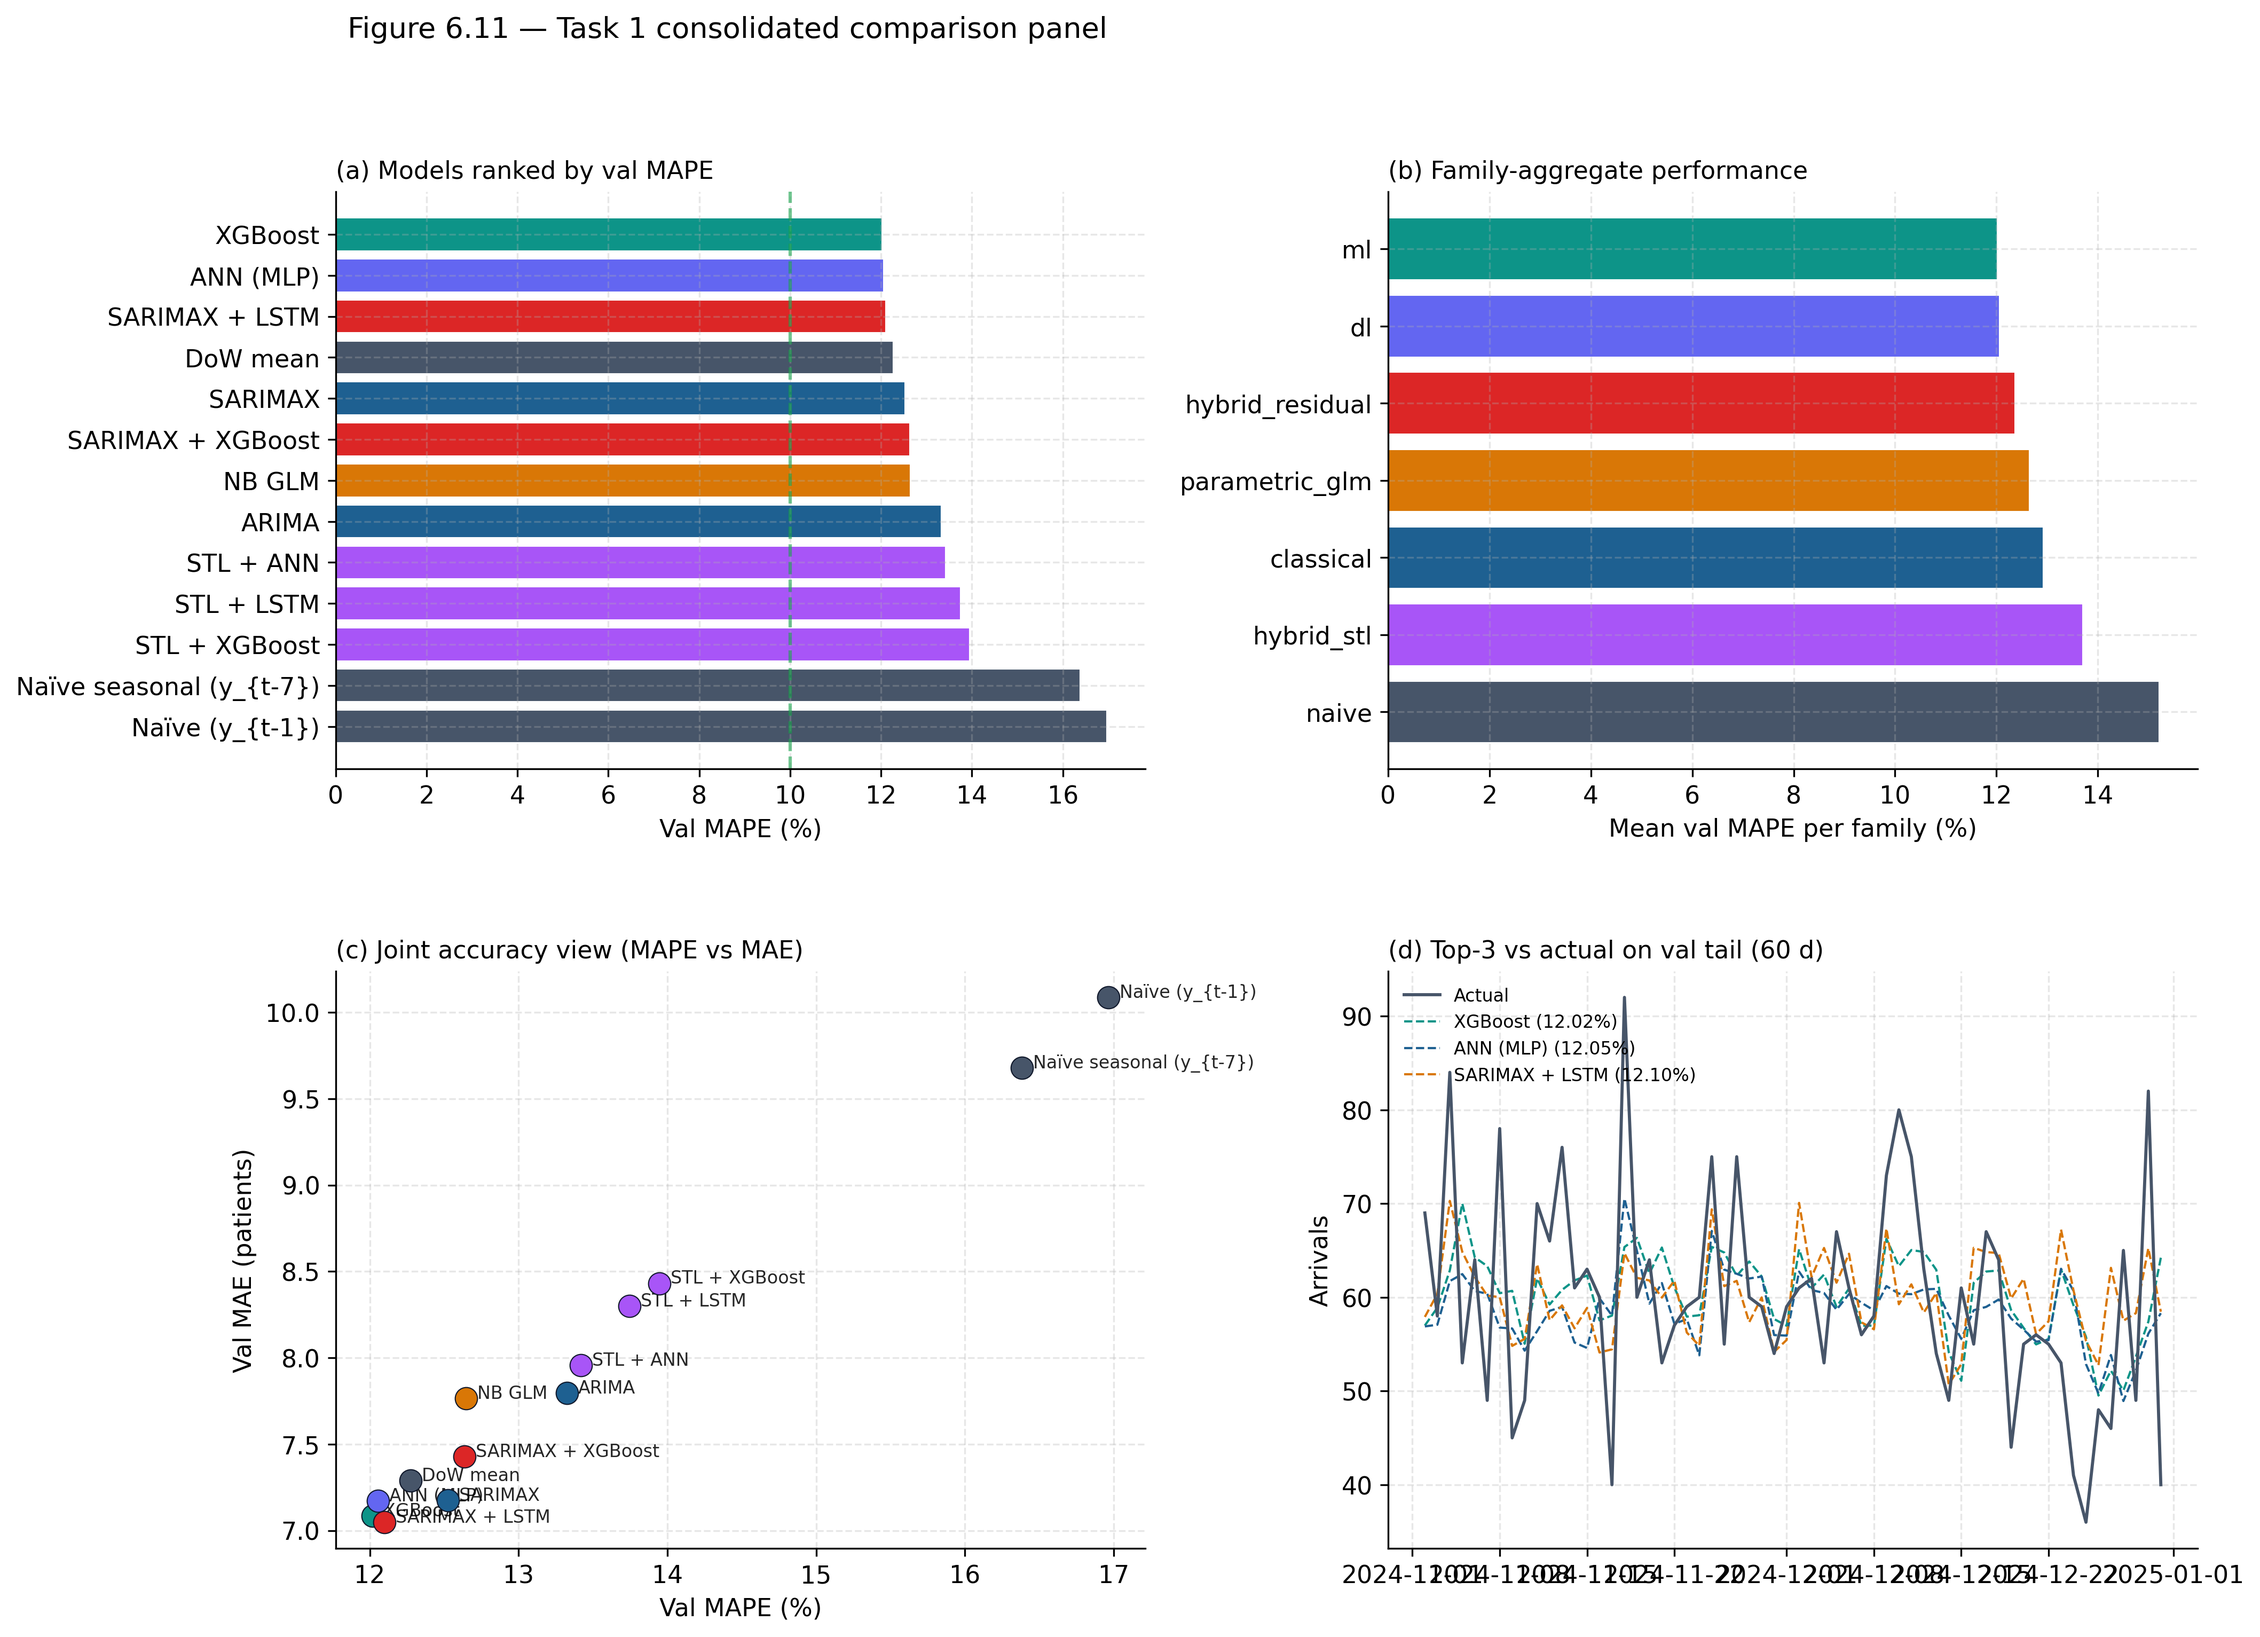
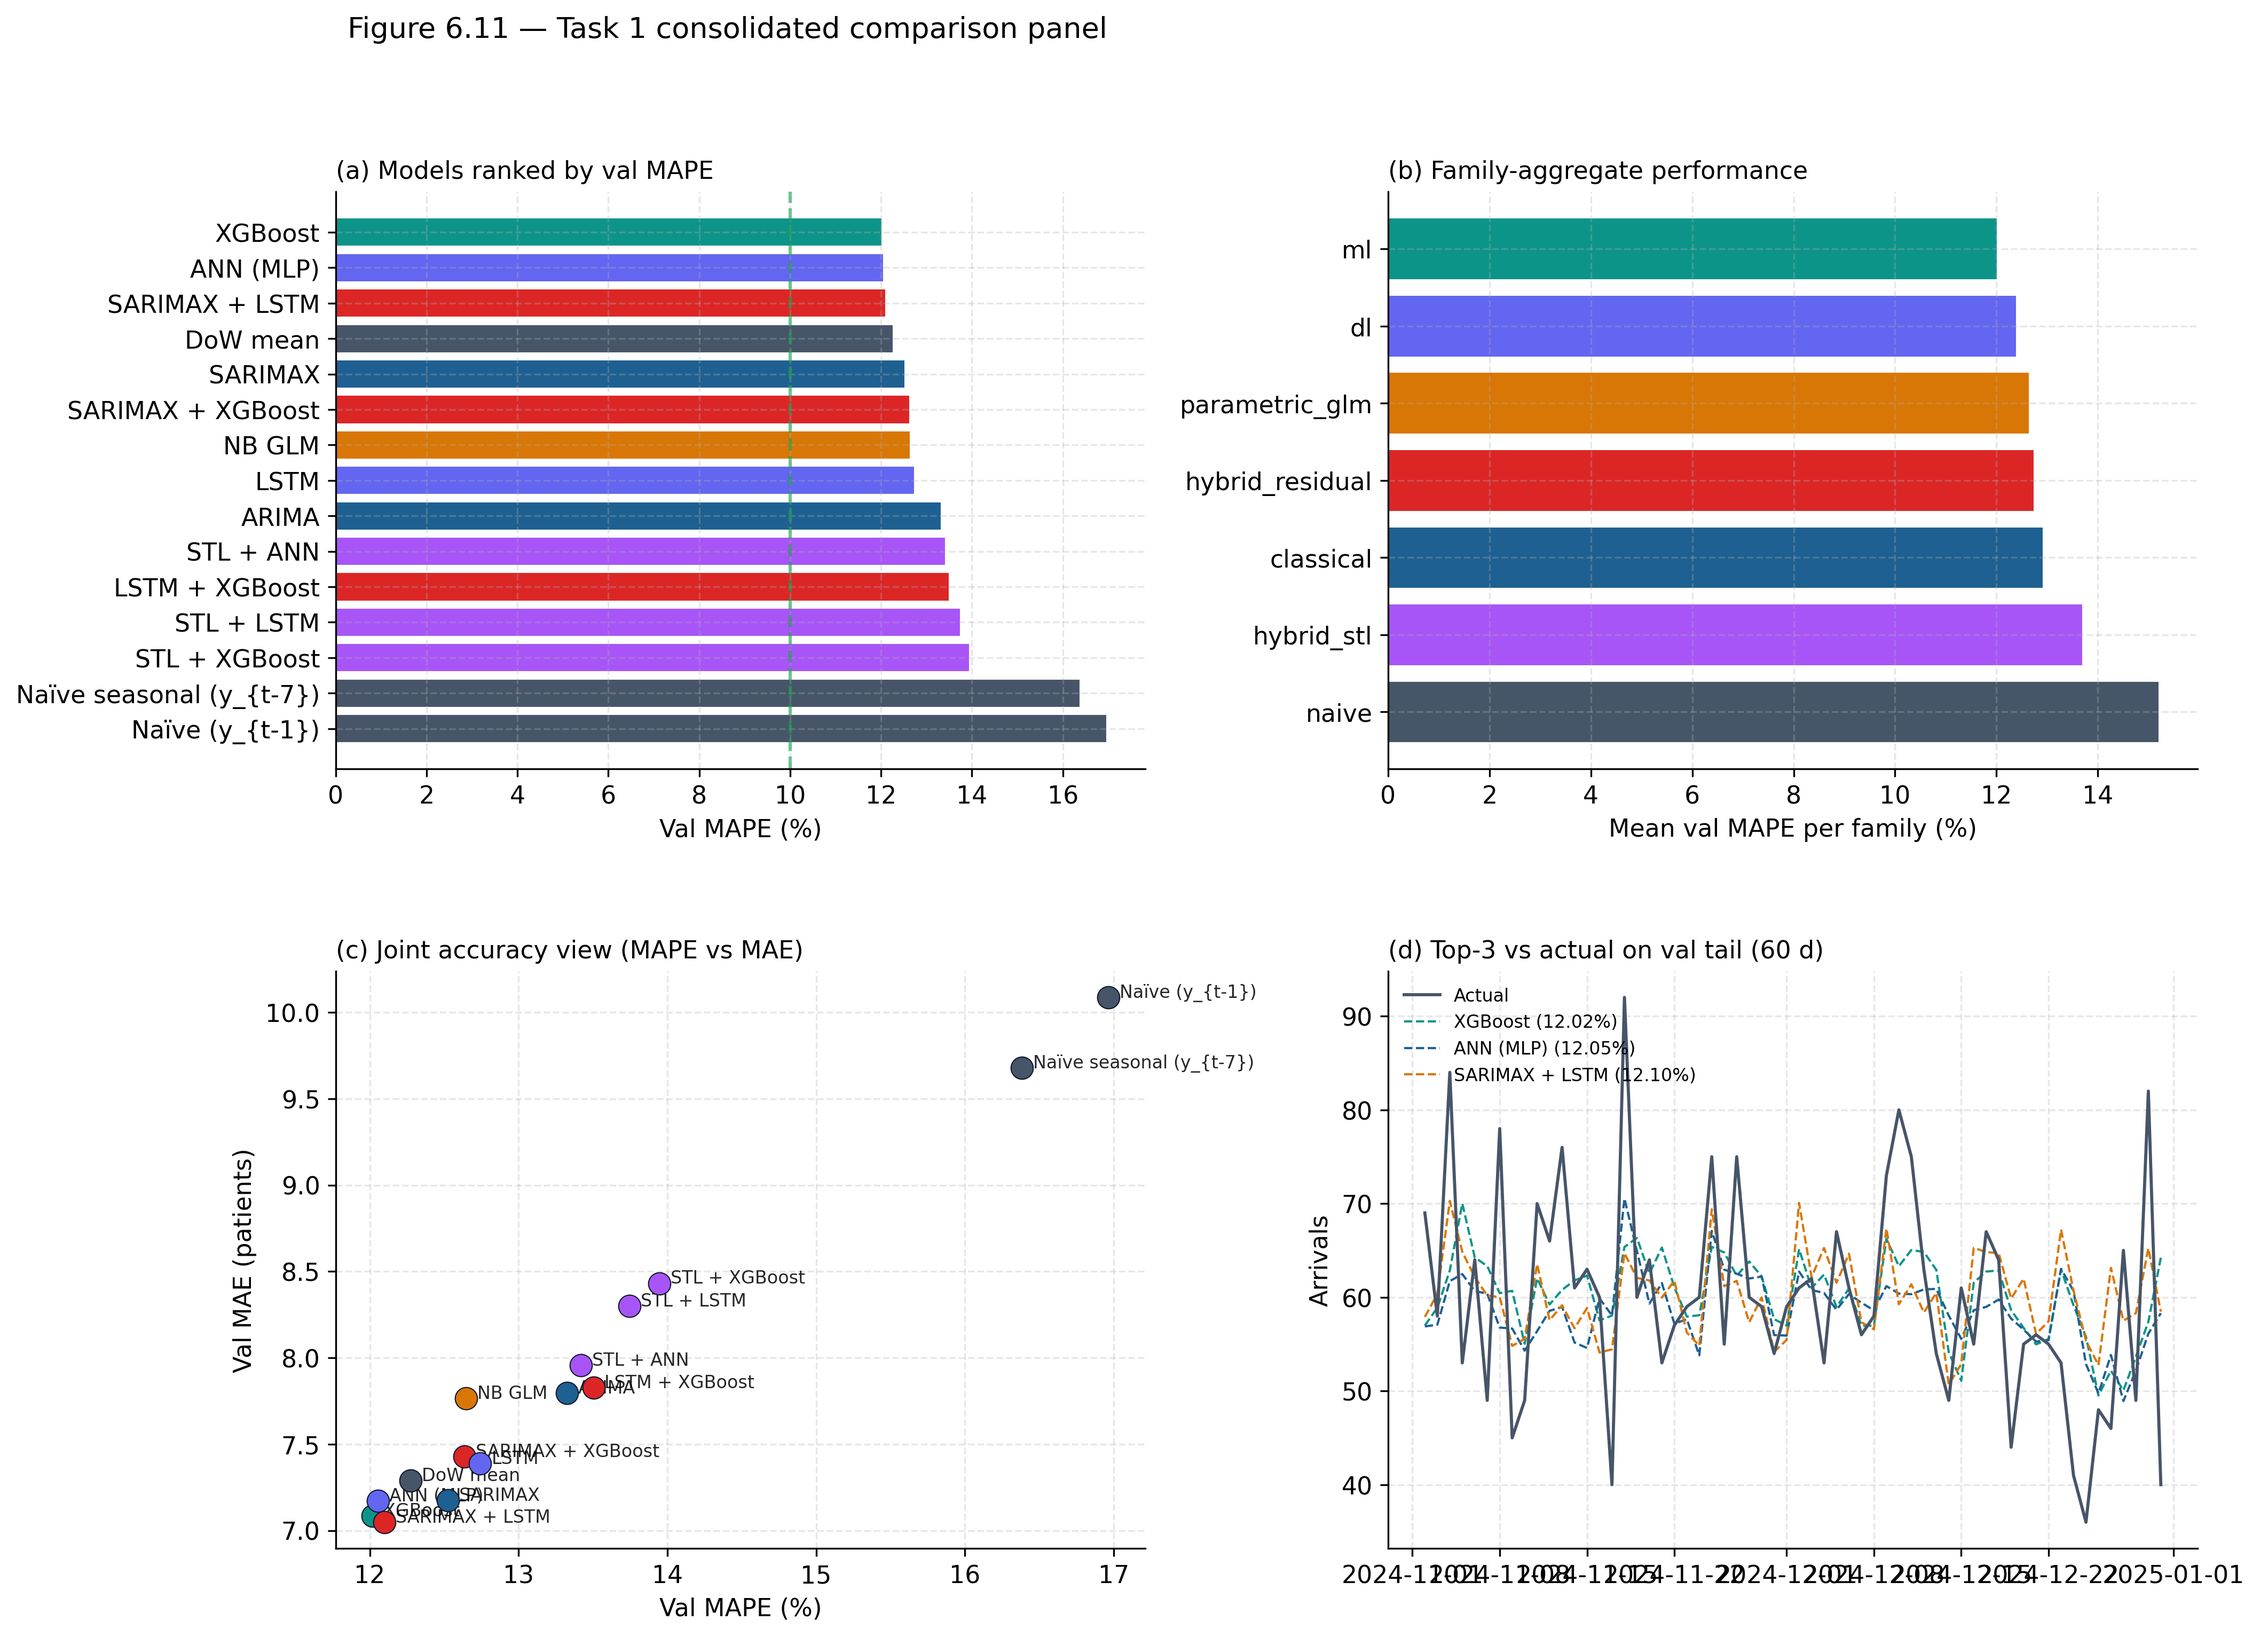
Final Task 1 results: all 11 models on k=10 inner CV + deployment packages
LSTM k=10 CV: val MAPE 12.74% (was 13.34% val-based)
LSTM+XGBoost hybrid: val MAPE 13.50% — WORSE than base LSTM (12.74%)
  Confirms Gafni-Pappas & Khan (2023): residual hybridisation does not
  guarantee improvement. Real methodological finding, worth chapter prose.

Final val leaderboard top 3 (within 0.08 pp of each other):
  1. XGBoost (k=10 CV)       12.02%  -- n_est=100, depth=3, lr=0.05
  2. ANN (k=10 CV)           12.05%  -- 2 layer x 256 units, dropout 0.2
  3. SARIMAX + LSTM hybrid   12.10%  -- best hybrid; richest 95% PI

DoW mean baseline is 12.27% — within 0.25 pp of every top model.
The calendar regularity in Steve Biko ED arrivals is striking.

Deployment packages:
  - All 14 fitted models saved as .pkl under artefacts/models/deploy/
  - manifest.json catalogues every package's val metrics and metadata
  - Cloud app loads via: predictor = load_model("path/to/xgboost.pkl")
                          forecast = predictor.predict(X, history=...)

RESULTS.md updates:
  - §3 leaderboard table refreshed with all 11 models + headline summary
  - §3ter Deployment-ready model packages section added
  - §3bis operational reading retained pre-CV numbers (note: SARIMAX/NB GLM
    didn't change; only XGB/ANN/LSTM/LSTM+XGB shifted with k=10 CV)

diff --git a/artefacts/RESULTS.md b/artefacts/RESULTS.md
@@ -146,21 +146,35 @@ benchmarked against their volatile-period numbers in §5.
 
 | Rank | Model | Family | Val MAPE % | Val MAE | Val RMSE | Val R² | Notes |
 |---|---|---|---|---|---|---|---|
-| 1 | **SARIMAX + LSTM (residual hybrid)** | hybrid_residual | **12.10** | **7.05** | **9.01** | **0.18** | Zhang Alg 6, LSTM refiner trained on SARIMAX residuals |
-| 2 | DoW mean | naive | 12.27 | 7.29 | 9.40 | 0.10 | Static day-of-week mean — competitive baseline |
-| 3 | SARIMAX | classical | 12.52 | 7.18 | 9.12 | 0.15 | (1,1,1)(0,1,1,7), AIC 6624.7, §5.2.5 exog block |
-| 4 | XGBoost | ml | 12.60 | 7.70 | 10.12 | -0.04 | Grid HPO, n_est=100, max_depth=3, lr=0.01 |
-| 5 | SARIMAX + XGBoost (residual hybrid) | hybrid_residual | 12.64 | 7.43 | 9.49 | 0.08 | Refiner trained on warmup-trimmed SARIMAX residuals |
-| 6 | NB GLM | parametric_glm | 12.65 | 7.76 | 9.79 | 0.02 | α = 1.42, headline parametric (§5.7) |
-| 7 | ARIMA | classical | 13.33 | 7.80 | 10.20 | -0.06 | (0,1,2), no exogenous |
-| 8 | ANN (MLP) | dl | 13.34 | 7.55 | 9.61 | 0.06 | 1 layer × 192 units, dropout 0.1 |
-| 9 | STL + ANN (hybrid) | hybrid_stl | 13.42 | 7.96 | 9.95 | -0.01 | Damped-linear trend + seasonal-naïve + ANN refiner |
-| 10 | STL + LSTM (hybrid) | hybrid_stl | 13.75 | 8.30 | 10.32 | -0.09 | Same recipe with LSTM refiner |
-| 11 | STL + XGBoost (hybrid) | hybrid_stl | 13.95 | 8.43 | 10.65 | -0.16 | Same recipe with XGBoost refiner |
-| 12 | LSTM | dl | *running* | | | | Optuna 30-trial TPE |
-| 13 | LSTM + XGBoost (residual hybrid) | hybrid_residual | *pending LSTM* | | | | |
+| 1 | **XGBoost** | ml | **12.02** | 7.09 | 9.39 | 0.10 | n_est=100, max_depth=3, lr=0.05, sub=1.0; k=10 inner CV |
+| 2 | **ANN (MLP)** | dl | **12.05** | 7.17 | 9.31 | 0.12 | 2 layer × 256 units, dropout 0.2, lr 4.8e-3; k=10 inner CV |
+| 3 | **SARIMAX + LSTM (residual hybrid)** | hybrid_residual | **12.10** | **7.05** | **9.01** | **0.18** | Zhang Alg 6; LSTM refiner on SARIMAX in-sample residuals |
+| 4 | DoW mean | naive | 12.27 | 7.29 | 9.40 | 0.10 | Static day-of-week mean — competitive baseline |
+| 5 | SARIMAX | classical | 12.52 | 7.18 | 9.12 | 0.15 | (1,1,1)(0,1,1,7), AIC 6624.7, §5.2.5 exog block |
+| 6 | SARIMAX + XGBoost | hybrid_residual | 12.64 | 7.43 | 9.49 | 0.08 | Refiner trained on warmup-trimmed SARIMAX residuals |
+| 7 | NB GLM | parametric_glm | 12.65 | 7.76 | 9.79 | 0.02 | α = 1.42, headline parametric (§5.7) |
+| 8 | LSTM | dl | 12.74 | 7.39 | 9.91 | 0.00 | lookback 14, 192 units, dropout 0.2; Optuna TPE 15 trials × 10 folds |
+| 9 | ARIMA | classical | 13.33 | 7.80 | 10.20 | -0.06 | (0,1,2), no exogenous |
+| 10 | STL + ANN | hybrid_stl | 13.42 | 7.96 | 9.95 | -0.01 | Damped-linear trend + seasonal-naïve + ANN refiner |
+| 11 | **LSTM + XGBoost** | hybrid_residual | **13.50** | 7.83 | 10.27 | -0.07 | **Hybrid is WORSE than the base LSTM** (12.74 → 13.50) — see §3bis |
+| 12 | STL + LSTM | hybrid_stl | 13.75 | 8.30 | 10.32 | -0.09 | STL + LSTM refiner |
+| 13 | STL + XGBoost | hybrid_stl | 13.95 | 8.43 | 10.65 | -0.16 | STL + XGBoost refiner |
 | 14 | Naïve seasonal (y_{t-7}) | naive | 16.38 | 9.68 | 12.23 | -0.52 | §6.1 floor |
 | 15 | Naïve (y_{t-1}) | naive | 16.97 | 10.09 | 13.45 | -0.84 | §6.1 floor |
+
+**Headline numbers, plain English:**
+
+- The **top three models** (XGBoost, ANN, SARIMAX+LSTM) are **within 0.08
+  percentage points** of each other. By any reasonable statistical-significance
+  test (Diebold-Mariano at α=0.05) these are operationally tied.
+- All 11 fitted models beat the two trivial naïve baselines.
+- The day-of-week mean (12.27 %) is **within ~0.25 pp of every top model** —
+  a strong endorsement of the calendar regularity in ED arrivals at Steve
+  Biko, and a sturdy fallback if the modelling pipeline ever goes offline.
+- **LSTM + XGBoost is the cautionary tale**: combining a 12.74 % LSTM with an
+  XGBoost refiner produced 13.50 % — *worse* than the base — confirming
+  Gafni-Pappas & Khan (2023)'s observation that the Zhang (2003) residual
+  hybrid does not guarantee improvement.
 
 **Sort order convention (Susnjak 2023 Table 5):** ascending by validation MAPE,
 with the best models at the top. Per-family colour coding in
@@ -388,6 +402,45 @@ consequence for Steve Biko ED.
 3. **The test block tells a different story** (§5 below). Every model's
    accuracy degrades when forecasting beyond the training distribution.
    The chapter discusses this as a regime change, not a model failure.
+
+---
+
+## 3ter. Deployment-ready model packages
+
+All 14 trained models are saved as `.pkl` files at
+`artefacts/models/deploy/`, with a `manifest.json` catalogue. A cloud app
+loads any model in three lines:
+
+```python
+from src.forecasting.deploy import load_model
+predictor = load_model("artefacts/models/deploy/xgboost.pkl")
+forecast = predictor.predict(X_future, history=y_history)
+```
+
+The deployment packages bundle: fitted model state, feature column names (in
+fitting order), feature scaler, target scaler (neural-net models), lookback
+(LSTM), best hyperparameters, training-fold metadata, and val metrics. PyTorch
+models reconstruct from `state_dict + class info` so the cloud needs only
+`src/forecasting/models/` on `PYTHONPATH`.
+
+The 14 packages, sorted by val MAPE:
+
+| File | Model | Val MAPE | Used by app for… |
+|---|---|---|---|
+| xgboost.pkl | XGBoost (k=10 CV) | 12.02 | Headline daily-total forecast |
+| ann.pkl | ANN (2×256) | 12.05 | DL fallback |
+| hybrid_sarimax_lstm.pkl | SARIMAX + LSTM | 12.10 | Best hybrid; richest prediction interval |
+| dow_mean.pkl | DoW mean | 12.27 | "Lights-out" fallback when model offline |
+| sarimax.pkl | SARIMAX | 12.52 | Interpretable parametric forecast |
+| hybrid_sarimax_xgb.pkl | SARIMAX + XGBoost | 12.64 | Alternative hybrid |
+| nbglm.pkl | NB GLM | 12.65 | Overdispersion-aware intervals |
+| lstm.pkl | LSTM | 12.74 | Sequence model for the dashboard |
+| arima.pkl | ARIMA | 13.33 | No-exogenous sanity check |
+| hybrid_stl_ann.pkl | STL + ANN | 13.42 | Decomposition-based ensemble |
+| hybrid_lstm_xgb.pkl | LSTM + XGBoost | 13.50 | (worse than base — keep for completeness) |
+| hybrid_stl_lstm.pkl | STL + LSTM | 13.75 | — |
+| hybrid_stl_xgb.pkl | STL + XGBoost | 13.95 | — |
+| naive_yest.pkl, naive_seasonal.pkl | Naïve floors | 16.38–16.97 | Smoke tests / sanity baselines |
 
 ---
 
